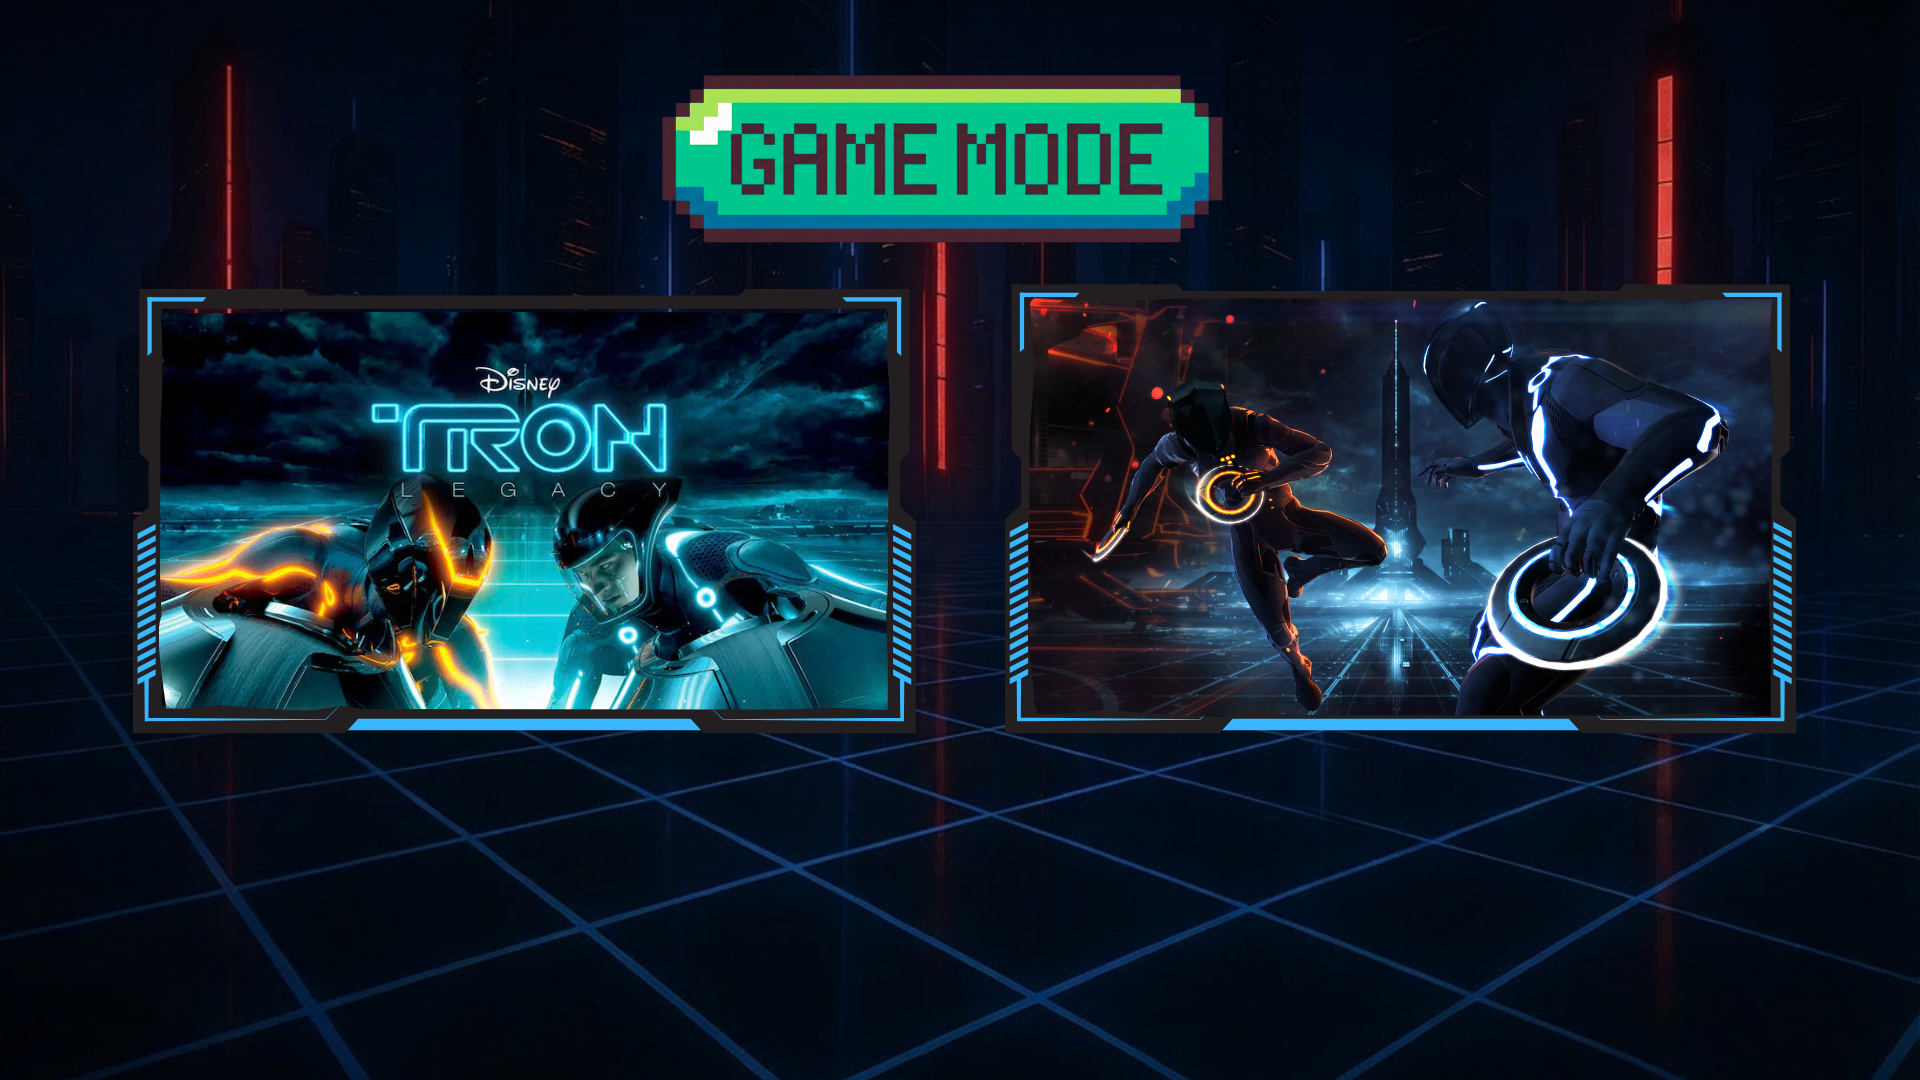
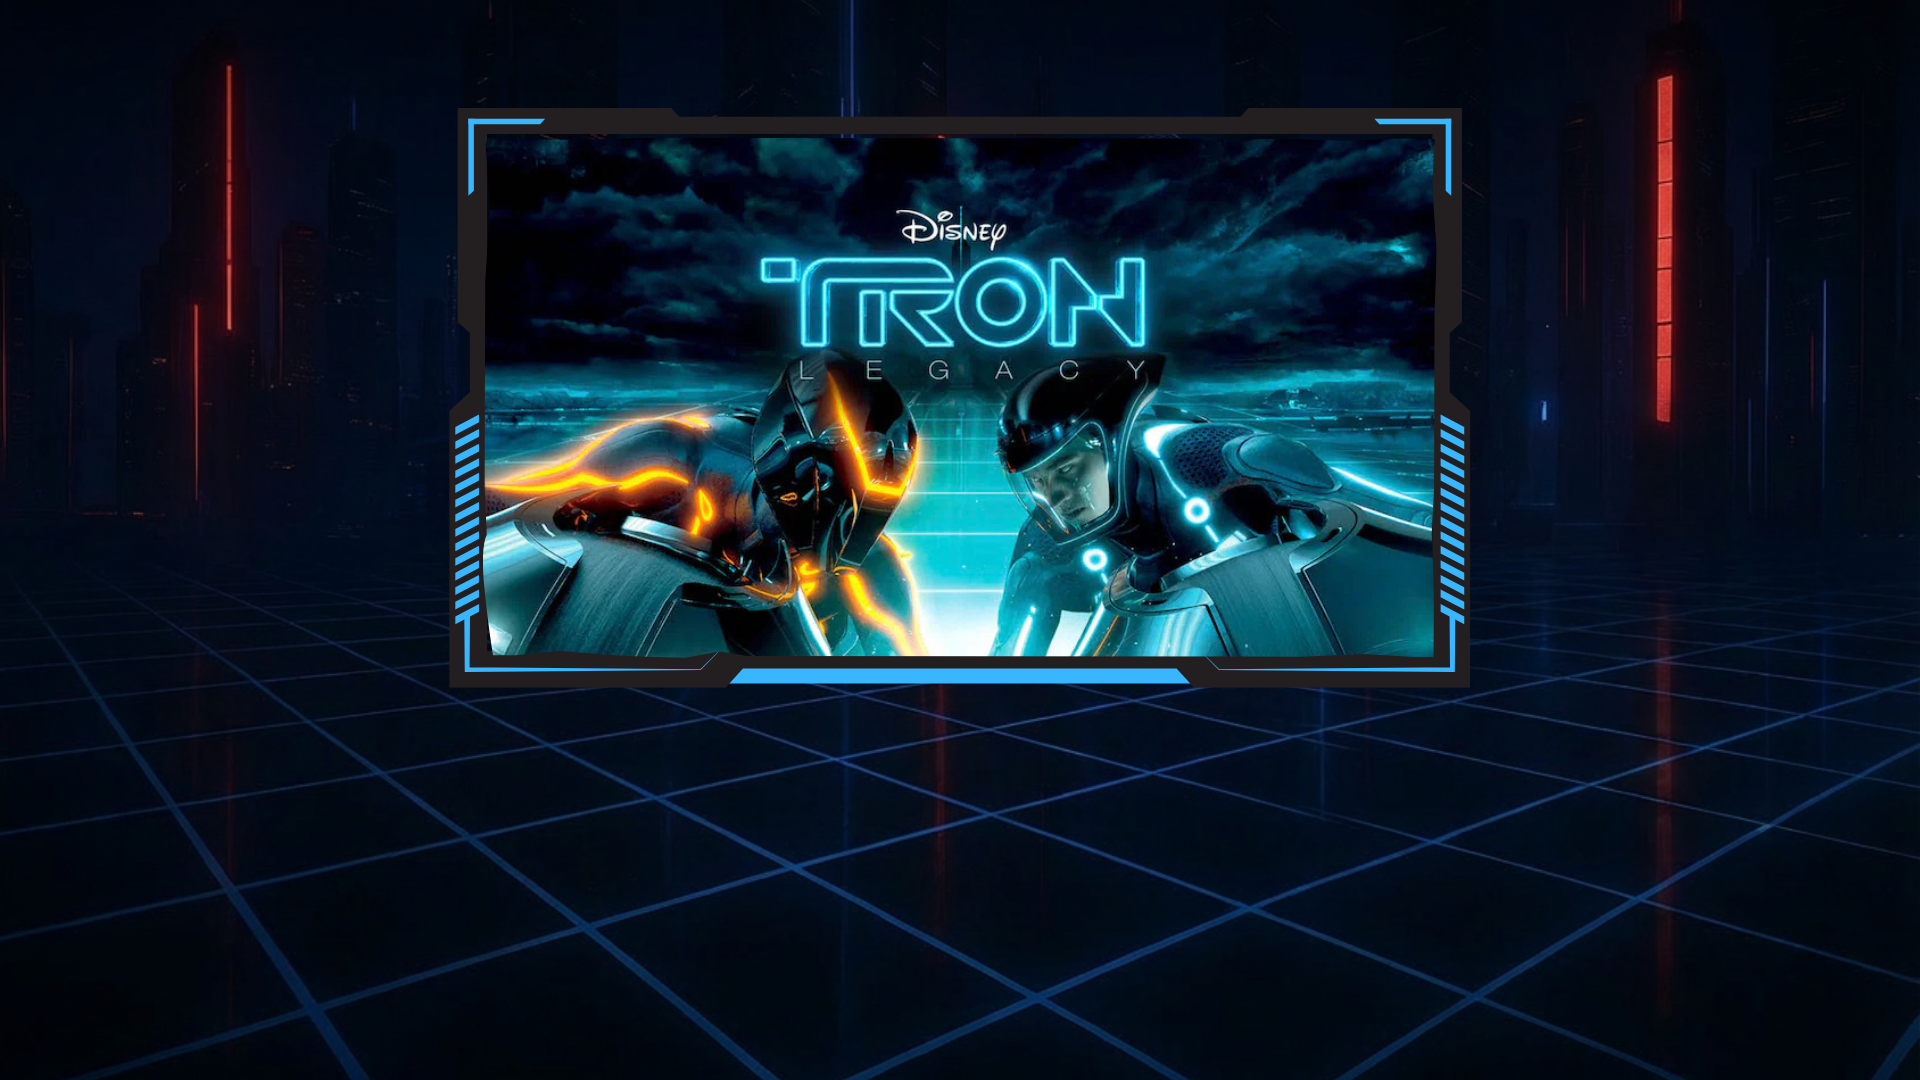
update UI design and delete endless mode

diff --git a/src/main/java/UI/ImagePanel.java b/src/main/java/UI/ImagePanel.java
@@ -1,33 +1,17 @@
 package UI;
 
-import javax.swing.JPanel;
-import javax.swing.ImageIcon;
-import java.awt.Graphics;
-import java.awt.Graphics2D;
-import java.awt.Image;
-import java.awt.Color;
-import java.awt.Font;
-import java.awt.RenderingHints;
-import java.awt.Rectangle;
-import java.awt.Cursor;
-import java.awt.event.MouseAdapter;
-import java.awt.event.MouseEvent;
-import java.awt.event.MouseMotionAdapter;
-import java.awt.event.WindowAdapter;
-import java.awt.event.WindowEvent;
+import javax.swing.*;
+import java.awt.*;
+import java.awt.event.*;
 
 public class ImagePanel extends JPanel {
 
     private Image backgroundImage;
     private Image gameIcon;
-    private Font baseFont;
     private Rectangle gameIconBounds;
     private SignUpFrame currentSignUpWindow = null;
-
-    // --- NEW FIELD ---
     private MainFrame parentFrame; 
 
-    // --- NEW SETTER ---
     public void setParentFrame(MainFrame frame) {
         this.parentFrame = frame;
     }
@@ -35,17 +19,17 @@ public class ImagePanel extends JPanel {
     public ImagePanel(String imagePath) {
         this.backgroundImage = new ImageIcon(imagePath).getImage();
         this.gameIcon = new ImageIcon("images/game_icon.jpeg").getImage();
-        this.baseFont = new Font("Arial", Font.BOLD, 1);
         this.gameIconBounds = new Rectangle();
+
+        // --- ANIMATION TIMER ---
+        // Refreshes the screen every 50ms to create the "vibe" effect
+        new javax.swing.Timer(50, e -> repaint()).start();
 
         addMouseListener(new MouseAdapter() {
             @Override
             public void mouseClicked(MouseEvent e) {
                 if (gameIconBounds.contains(e.getPoint())) {
-                    
                     if (currentSignUpWindow == null || !currentSignUpWindow.isVisible()) {
-                        
-                        // --- CHANGE HERE: Pass parentFrame to the constructor ---
                         currentSignUpWindow = new SignUpFrame(parentFrame);
                         currentSignUpWindow.setVisible(true);
 
@@ -55,7 +39,6 @@ public class ImagePanel extends JPanel {
                                 currentSignUpWindow = null;
                             }
                         });
-
                     } else {
                         currentSignUpWindow.toFront();
                         currentSignUpWindow.requestFocus();
@@ -82,35 +65,51 @@ public class ImagePanel extends JPanel {
         int panelWidth = getWidth();
         int panelHeight = getHeight();
 
+        // 1. Draw Background
         if (backgroundImage != null) {
             g.drawImage(backgroundImage, 0, 0, panelWidth, panelHeight, this);
         }
 
-        // ... (Rest of your painting code remains exactly the same) ...
-        
-        // Recalculate bounds for painting
-        int leftMargin = (int) (panelWidth * 0.07); 
-        float titleFontSize = (float) (panelHeight * 0.04); 
-        int titleTopMargin = (int) (panelHeight * 0.5); 
-        int iconSize = (int) (panelHeight * 0.17); 
-        int iconTopMargin = (int) (titleTopMargin + titleFontSize + (panelHeight * 0.02)); 
-        int iconLeftMargin = (int) (leftMargin * 0.9);
-        float textFontSize = (float) (panelHeight * 0.02); 
-        int textTopMargin = (int) (iconTopMargin + iconSize + (panelHeight * 0.02));
+        // 2. Calculate Button Position
+        int iconSize = (int) (panelHeight * 0.20); // Button is 20% of screen height
+        int iconX= (int) (panelWidth * 0.10);
+        int iconY = (int) (panelHeight * 0.55); 
 
         Graphics2D g2 = (Graphics2D) g;
-        g2.setRenderingHint(RenderingHints.KEY_TEXT_ANTIALIASING, RenderingHints.VALUE_TEXT_ANTIALIAS_ON);
+        g2.setRenderingHint(RenderingHints.KEY_ANTIALIASING, RenderingHints.VALUE_ANTIALIAS_ON);
 
-        g2.setColor(Color.WHITE);
-        g2.setFont(baseFont.deriveFont(titleFontSize));
-        g2.drawString("Login Methods:", leftMargin, titleTopMargin);
-
+        // 3. Draw ONLY the Icon
         if (gameIcon != null) {
-            g2.drawImage(gameIcon, iconLeftMargin, iconTopMargin, iconSize, iconSize, this);
-            gameIconBounds.setBounds(iconLeftMargin, iconTopMargin, iconSize, iconSize);
-        }
+            g2.drawImage(gameIcon, iconX, iconY, iconSize, iconSize, this);
+            gameIconBounds.setBounds(iconX, iconY, iconSize, iconSize);
 
-        g2.setFont(baseFont.deriveFont(Font.PLAIN, textFontSize));
-        g2.drawString("Game Id Account", leftMargin, textTopMargin);
+        // 4. NEW: Draw Semi-Transparent Text Below Icon
+        String text = "click the icon to start";
+        int fontSize = (int) (panelHeight * 0.03); 
+        g2.setFont(new Font("Arial", Font.BOLD, fontSize));
+
+        // A. Calculate Pulse (0.0 to 1.0)
+        long currentTime = System.currentTimeMillis();
+        // Speed: 1000 = 1 second per cycle. Change to 2000 for slower vibe.
+        double angle = (currentTime % 1500) / 1500.0 * (2 * Math.PI); 
+        double pulse = (Math.sin(angle) + 1) / 2.0; 
+        
+        // B. Calculate Alpha (Opacity)
+        // Range: 128 (Half Visible) to 255 (Fully Visible)
+        int minAlpha = 128; 
+        int maxAlpha = 255;
+        int alpha = (int) (minAlpha + (pulse * (maxAlpha - minAlpha))); 
+
+        // C. Set Color
+        g2.setColor(new Color(255, 255, 255, alpha)); 
+
+        // D. Center Text Below Icon
+        FontMetrics fm = g2.getFontMetrics();
+        int textWidth = fm.stringWidth(text);
+        int textX = iconX + (iconSize / 2) - (textWidth / 2);
+        int textY = iconY + iconSize + fontSize + 5; 
+
+        g2.drawString(text, textX, textY);
+        }
     }
 }

diff --git a/src/main/java/UI/ImagePanel_GameMode.java b/src/main/java/UI/ImagePanel_GameMode.java
@@ -9,7 +9,6 @@ public class ImagePanel_GameMode extends JPanel {
 
     private Image backgroundImage;
     private HomeButton homeButton; //declare home button
-    private ChallengeModeButton challengeButton; //declare challenge mode button
     private StoryModeButton storyButton; // declare story mode button
     private MainFrame mainFrameRef;
     private String username;
@@ -34,11 +33,7 @@ public class ImagePanel_GameMode extends JPanel {
         });
         add(homeButton);
 
-        //2.Create Challenge Mode Button
-        challengeButton = new ChallengeModeButton("images/challengemode_button.png");
-        add(challengeButton);
-
-        //3.Create Story Mode Button
+        //2.Create Story Mode Button
         storyButton = new StoryModeButton("images/storymode_button.png");
         add(storyButton);
 
@@ -70,23 +65,12 @@ public class ImagePanel_GameMode extends JPanel {
         homeButton.setBounds(30, 30, homeSize, homeSize);
         homeButton.resizeIcon(homeSize);
 
-        // 2. Set Challenge Mode Button
-        int cHeight = (int)(h * 0.19); 
-        int cWidth  = (int)(cHeight * 2.5); 
+        // 2. Set Story Mode Button
+        int storyHeight = (int)(h * 0.18);
+        int storyWidth  = (int)(storyHeight * 2.5); 
 
-        int challengeX = (int) (w * 0.57);
-        int challengeY = ((h / 2) - (cHeight / 2)) + 250;
-
-
-        challengeButton.setBounds(challengeX, challengeY, cWidth, cHeight);
-        challengeButton.resizeIcon(cWidth, cHeight);
-
-        // 3. Set Story Mode Button
-        int storyHeight = (int)(h * 0.19); 
-        int storyWidth  = (int)(cHeight * 2.5); 
-
-        int storyX = (int) (w * 0.10);
-        int storyY = ((h / 2) - (storyHeight / 2)) + 250;
+        int storyX = (int) (w - storyWidth) / 2;
+        int storyY = ((h / 2) - (storyHeight / 2)) + 280;
 
         storyButton.setBounds(storyX, storyY, storyWidth, storyHeight);
         storyButton.resizeIcon(storyWidth, storyHeight);

diff --git a/src/main/java/UI/MainFrame.java b/src/main/java/UI/MainFrame.java
@@ -48,7 +48,7 @@ public class MainFrame extends JFrame {
 
     public void changeToGameMode() {
  
-        ImagePanel_GameMode gameModePanel = new ImagePanel_GameMode("images/tron_3.png", this, currentUsername);
+        ImagePanel_GameMode gameModePanel = new ImagePanel_GameMode("images/tron_3a.png", this, currentUsername);
     
          setContentPane(gameModePanel);
          revalidate();
